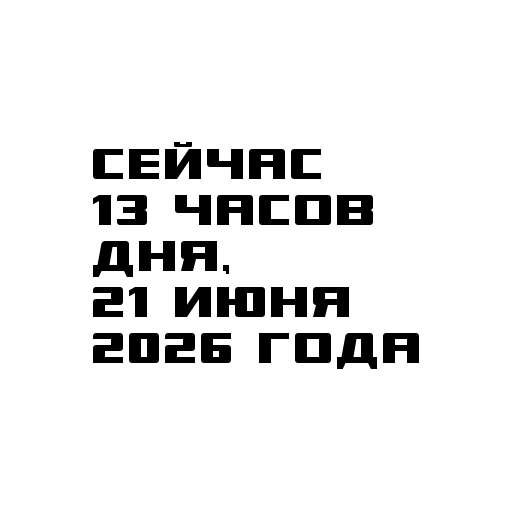
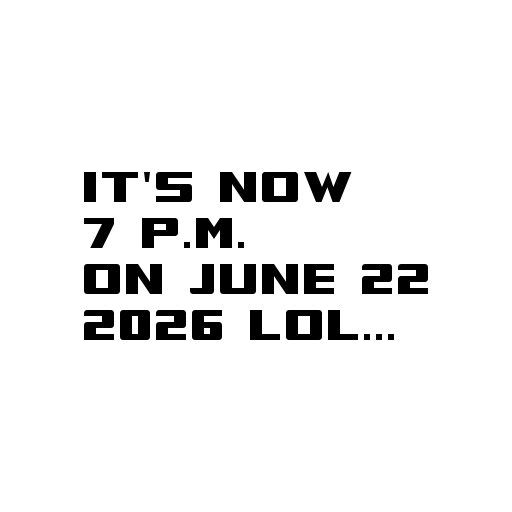
Change text language to english

Changed region(s): [[0.1562, 0.2812, 0.8438, 0.7188]]

diff --git a/utils.py b/utils.py
@@ -30,14 +30,10 @@ def datetime_string(dt: datetime) -> str:
 
     # Часть суток
     def get_time_period(h: int) -> str:
-        if 0 <= h <= 4 or h == 23:
-            return "ночи"
-        elif 5 <= h <= 11:
-            return "утра"
-        elif 12 <= h <= 17:
-            return "дня"
-        else:  # 18-22
-            return "вечера"
+        if 0 <= h <= 12:
+            return "A.M."
+        else:
+            return "P.M."
 
     if not isinstance(dt, datetime):
         raise ValueError("Аргумент должен быть объектом datetime")
@@ -51,7 +47,7 @@ def datetime_string(dt: datetime) -> str:
     # Месяцы в родительном падеже
     months_genitive = {
         1: "января", 2: "февраля", 3: "марта", 4: "апреля",
-        5: "мая", 6: "июня", 7: "июля", 8: "августа",
+        5: "мая", 6: "June", 7: "July", 8: "августа",
         9: "сентября", 10: "октября", 11: "ноября", 12: "декабря"
     }
 
@@ -59,7 +55,7 @@ def datetime_string(dt: datetime) -> str:
     period = get_time_period(hour)
     month_str = months_genitive[month]
 
-    return (f"Сейчас\n{hour_12} {hours_word}\n{period},\n{day} {month_str}\n{year} года").upper()
+    return (f"It's now\n{hour_12} {period}\non {month_str} {day}\n{year} LOL...").upper()
 
 
 # Аватарка из текста
@@ -93,6 +89,9 @@ def string_avatar(
     x = (size - w) // 2
     y = (size - h) // 2
 
-    draw.text((x, y - 5), text, font=font, fill="black")
+    draw.text((x, y - 12), text, font=font, fill="black")
 
     img.save(output_file)
+
+
+string_avatar(datetime_string(datetime.now()))
